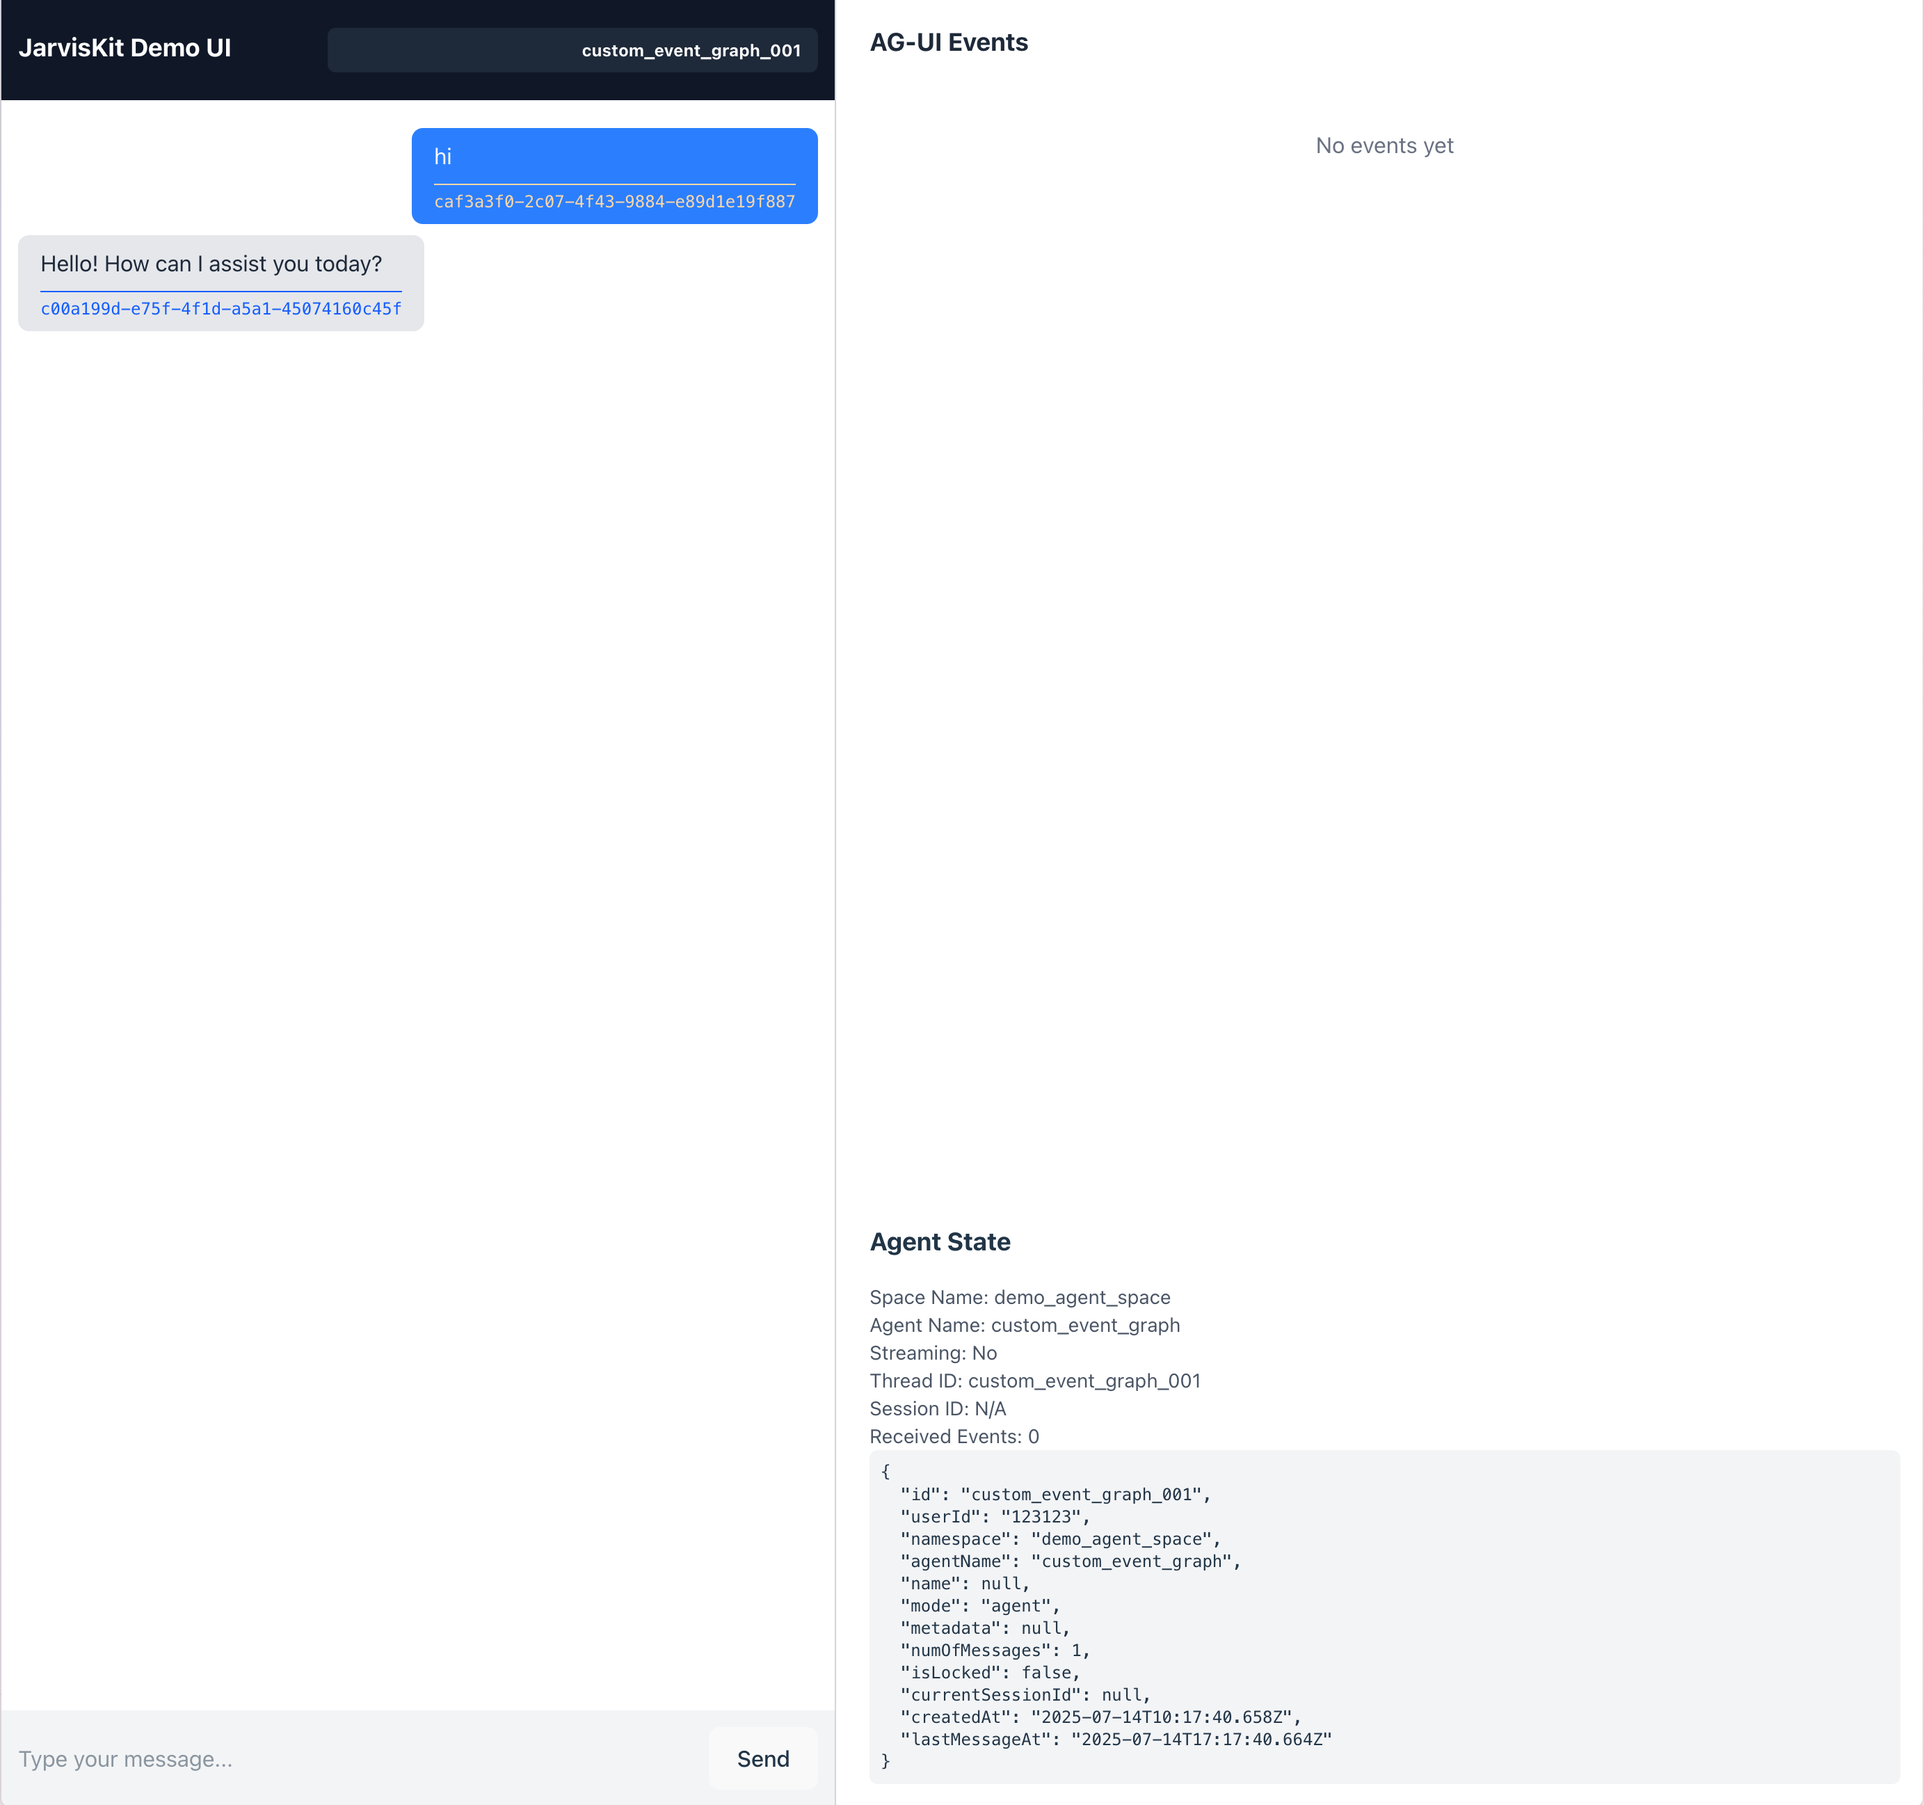
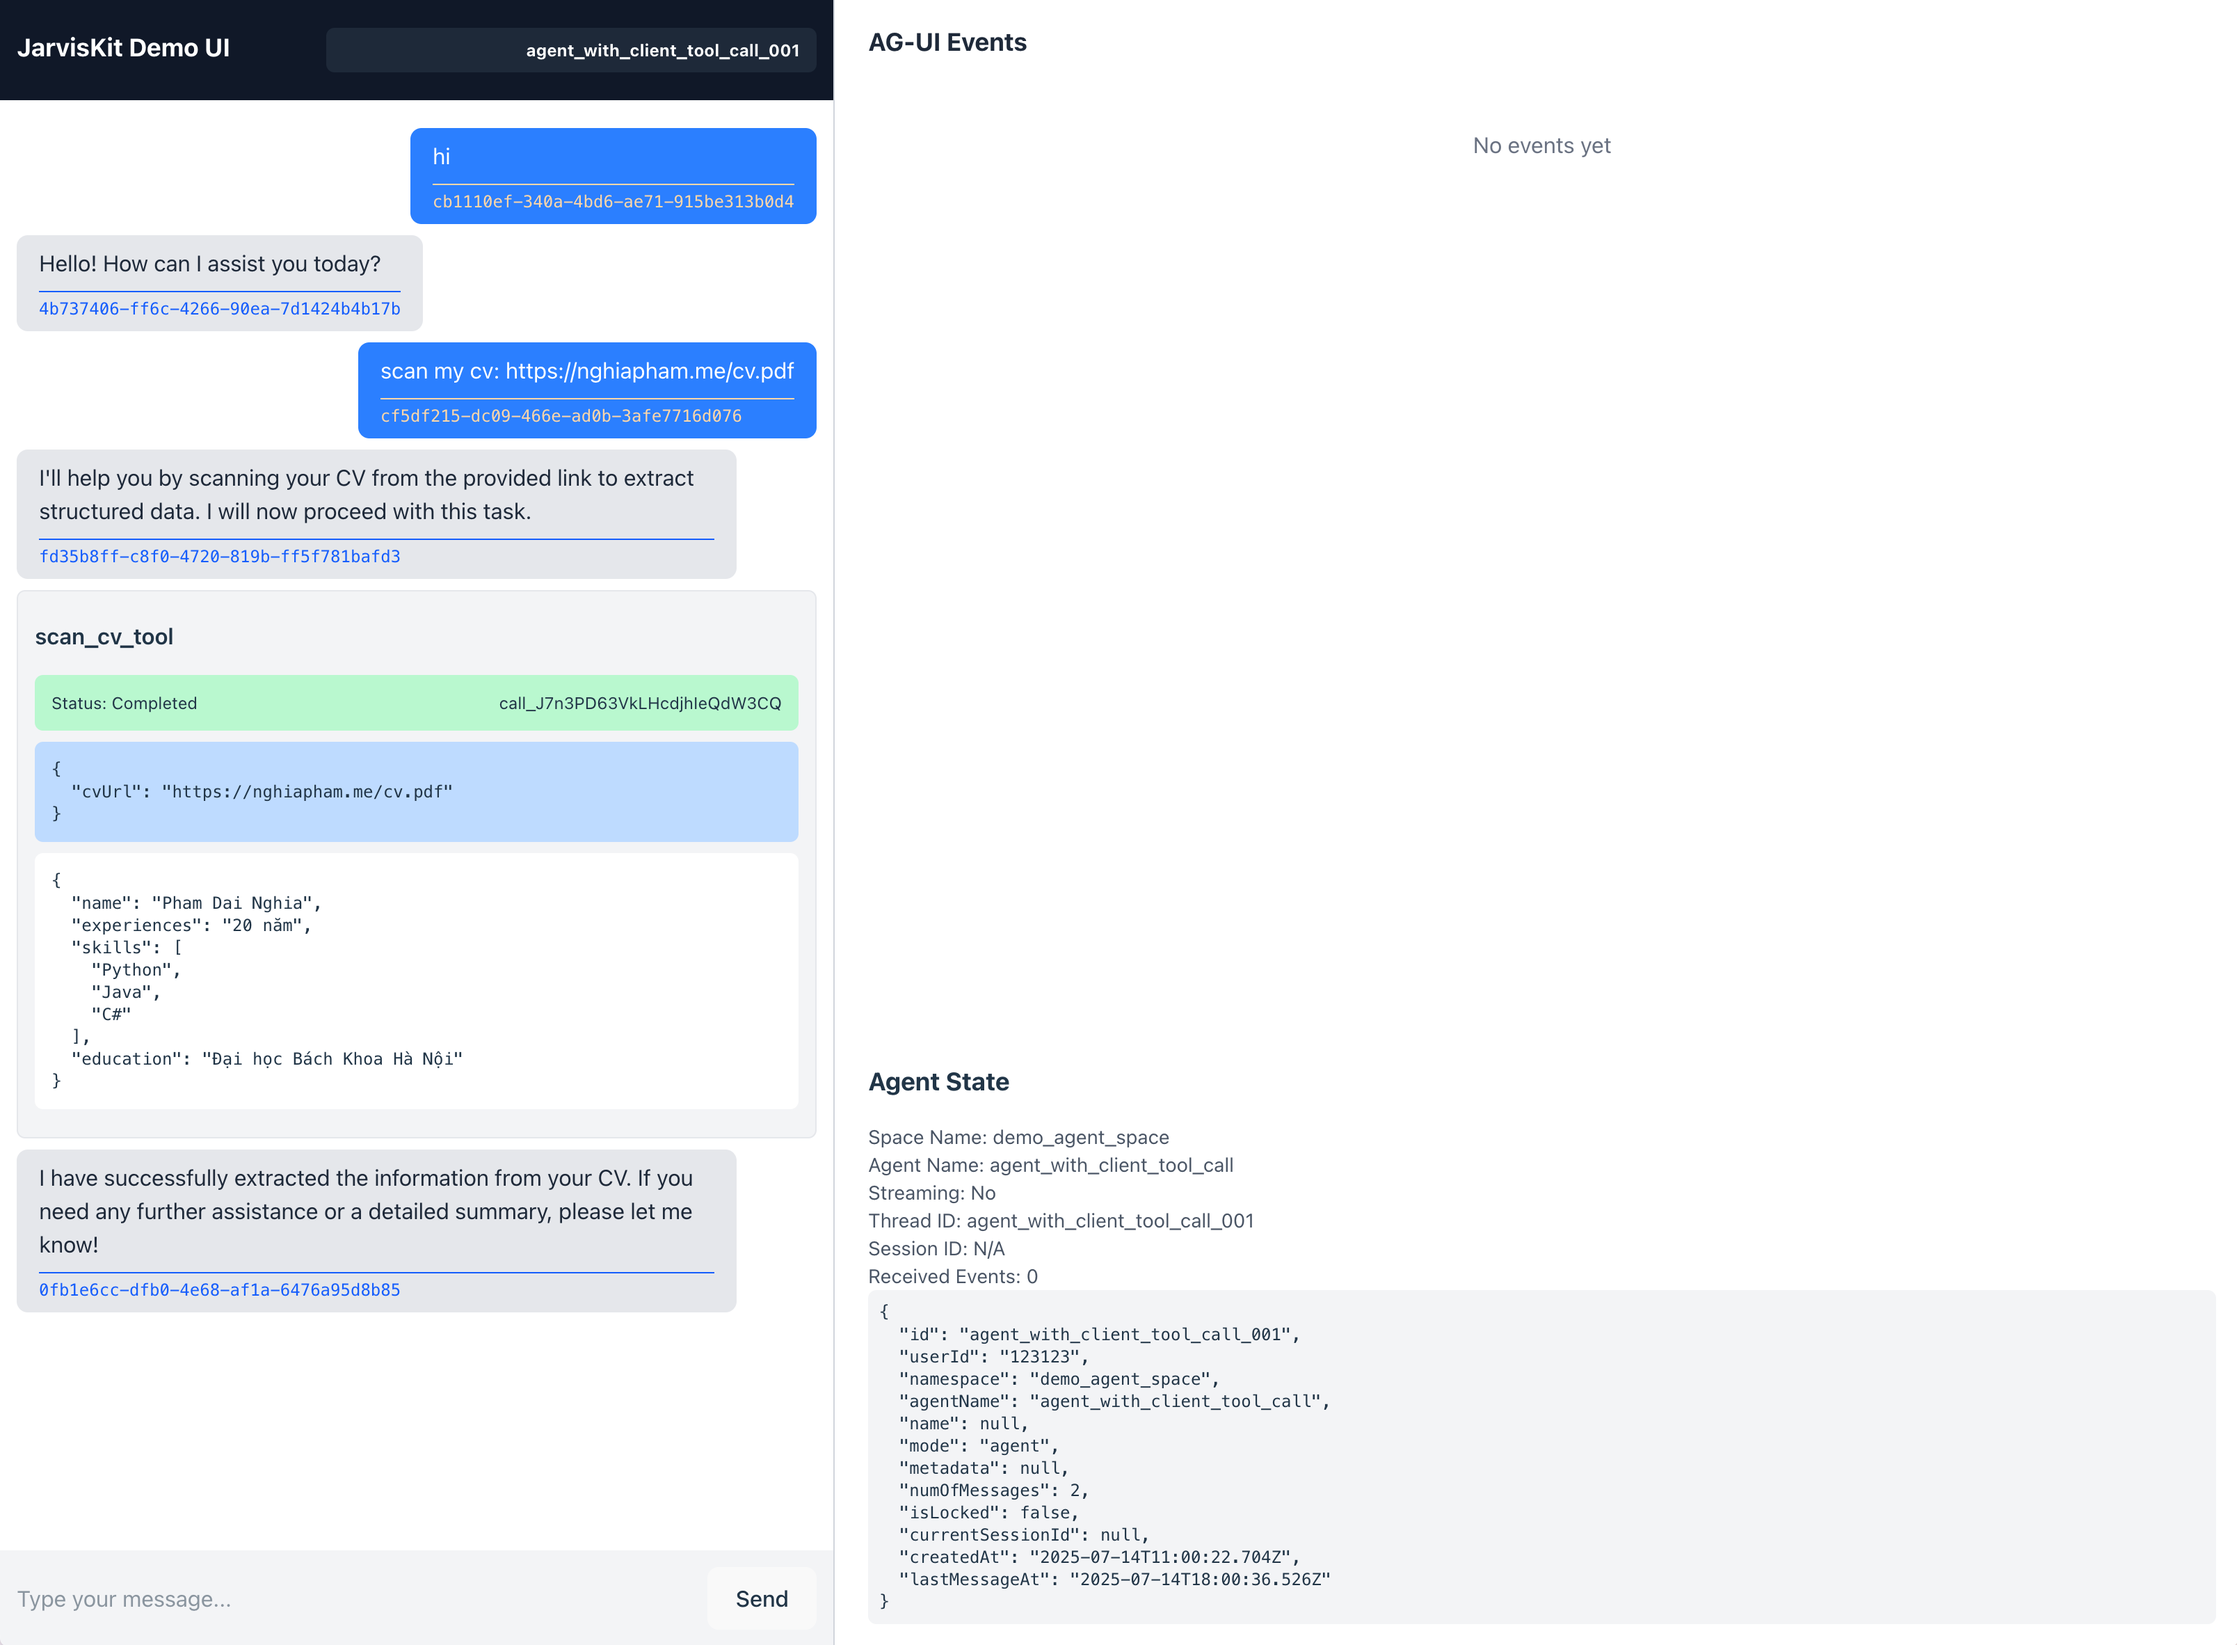
Get runtime authToken from env

diff --git a/src/jarviskit/App.tsx b/src/jarviskit/App.tsx
@@ -5,17 +5,18 @@ import { AgentProvider } from './agent.context';
 
 
 export default function AgUiApp() {
+  const runtimeAuthToken = import.meta.env.VITE_JARVIS_KIT_AUTH_TOKEN;
 
   return (
     <AgentProvider
       runtimeEndpoint="http://localhost:6789"
       namespace="demo_agent_space"
-      agentName="custom_event_graph"
+      agentName="agent_with_client_tool_call"
       agentConfig={{ token: 'abc.def.ghi', model: 'gpt-4o-mini' }}
-      authToken="eyJhbGciOiJIUzI1NiIsInR5cCI6IkpXVCJ9.eyJpZCI6IjEyMzEyMyIsImZ1bGxOYW1lIjoiTmdoaWEgUGhhbSIsImlhdCI6MTc1MjE0MTAzMSwiZXhwIjoxNzUyNzQ1ODMxfQ.IIP6CYSk21VNqpJhxAPf5RdyOwQjhRmoTaiWPKr8KDw"
+      authToken={runtimeAuthToken}
     >
       <div className="flex flex-row gap-2 w-screen h-screen">
-        <ChatBox threadId="custom_event_graph_001" />
+        <ChatBox threadId="agent_with_client_tool_call_002" />
 
         <div className="flex flex-col flex-grow">
           <EventBox />
